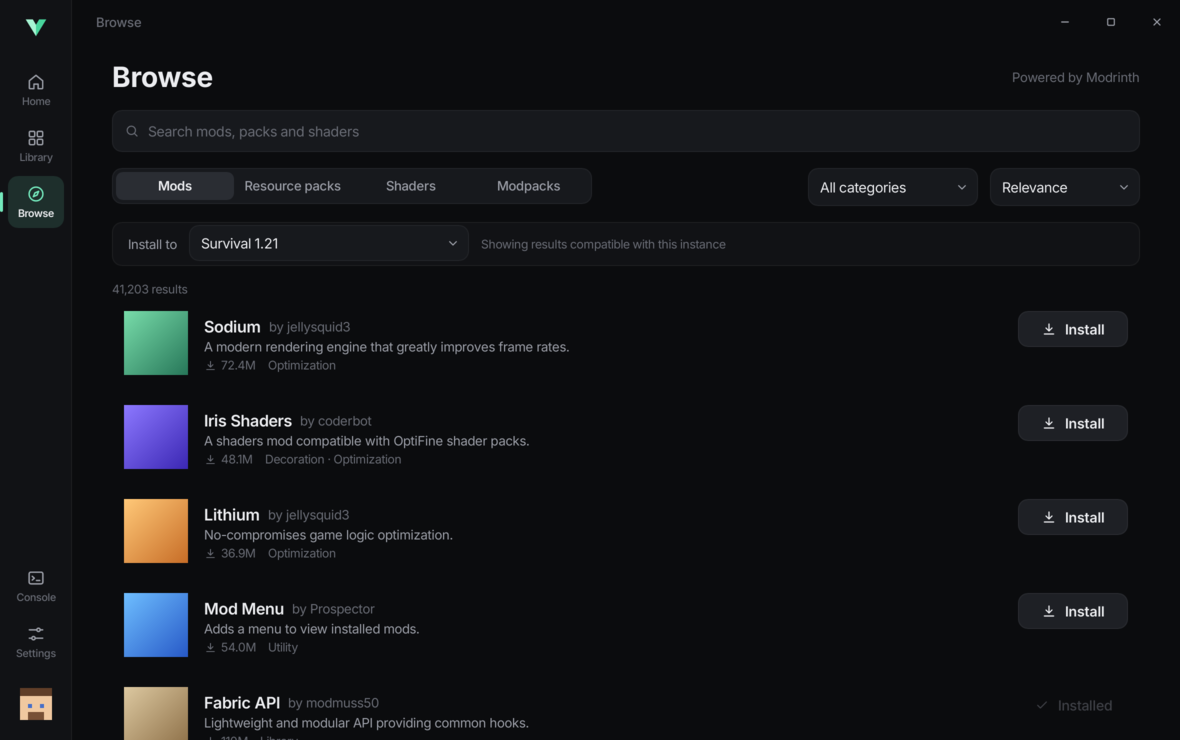
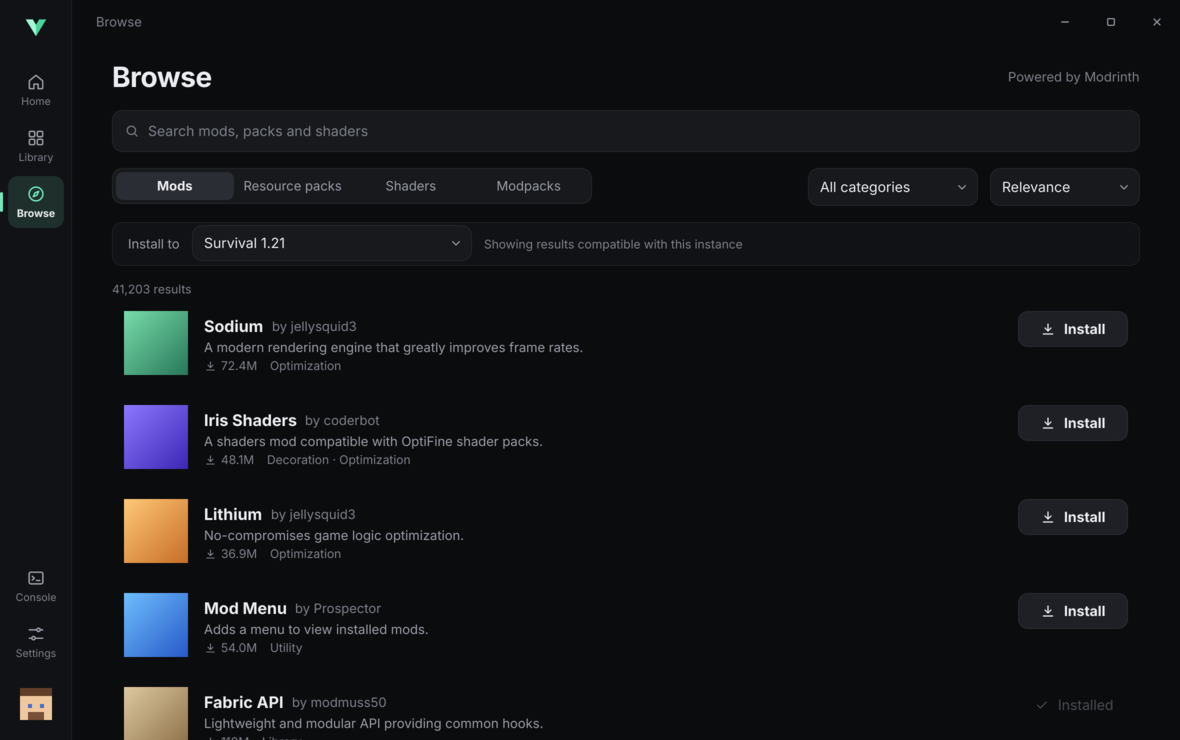
fix(ui): raise faint text contrast to WCAG AA in app and website

diff --git a/web/assets/tokens.css b/web/assets/tokens.css
@@ -8,7 +8,7 @@
   --border-strong: rgba(255, 255, 255, 0.11);
   --text: #ecedf0;
   --text-muted: #9a9da6;
-  --text-faint: #686b74;
+  --text-faint: #7e818a;
   --accent: #74e8bc;
   --on-accent: #0b0c0e;
   --accent-soft: rgba(116, 232, 188, 0.14);

diff --git a/docs/PERFORMANCE.md b/docs/PERFORMANCE.md
@@ -91,3 +91,17 @@ scripts/bench.sh target/release/vanta 15
 
 `VANTA_BENCH_STARTUP=1 vanta` prints `first_frame_ms=…` and exits after the
 first frame. Size analysis: `cargo bloat --profile bloat -p vanta-app --bin vanta --crates`.
+
+## Website
+
+Lighthouse 13 (headless Chrome 156) on `web/`, 2026-10-28:
+
+| Form factor | Performance | Accessibility | Best practices | SEO |
+| --- | --- | --- | --- | --- |
+| Mobile | 100 | 100 | 96 | 100 |
+| Desktop | 100 | 100 | 96 | 100 |
+
+The page is plain HTML/CSS with one small deferred script, self-hosted Latin
+subsets of Inter (≈ 25 KB per weight) and WebP screenshots. The best-practices
+point was a console error from the GitHub releases API returning 404 before the
+first release existed.

diff --git a/docs/DESIGN.md b/docs/DESIGN.md
@@ -26,7 +26,7 @@ so it stays sharp at 16 px.
 | `border-strong` | `#ffffff1c` | `#0000001f` | Hovered cards, dialogs |
 | `text` | `#ecedf0` | `#141518` | Primary text |
 | `text-muted` | `#9a9da6` | `#5c5f67` | Secondary text |
-| `text-faint` | `#686b74` | `#8d9097` | Captions, placeholders |
+| `text-faint` | `#7e818a` | `#6a6d74` | Captions, placeholders (≥ 4.5:1 on `bg`, `surface-1`, `surface-2`) |
 | `danger` | `#ff6b6b` | `#d93636` | Destructive actions, errors |
 | `warning` | `#f5b94a` | `#b7790b` | Warnings in logs |
 
